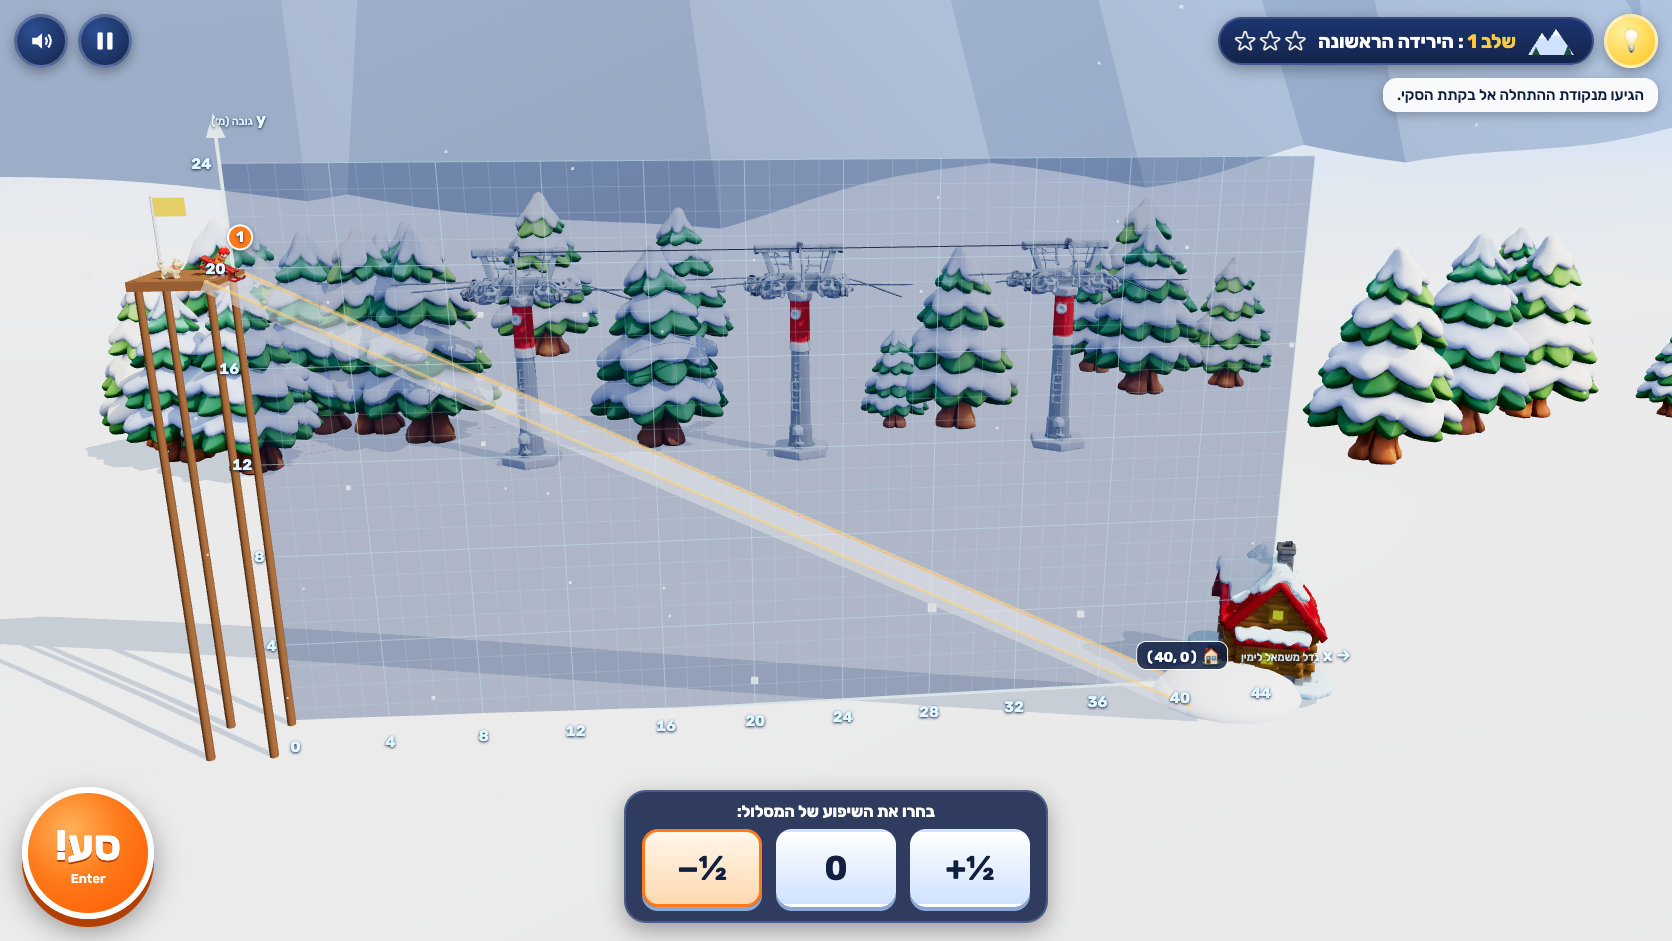
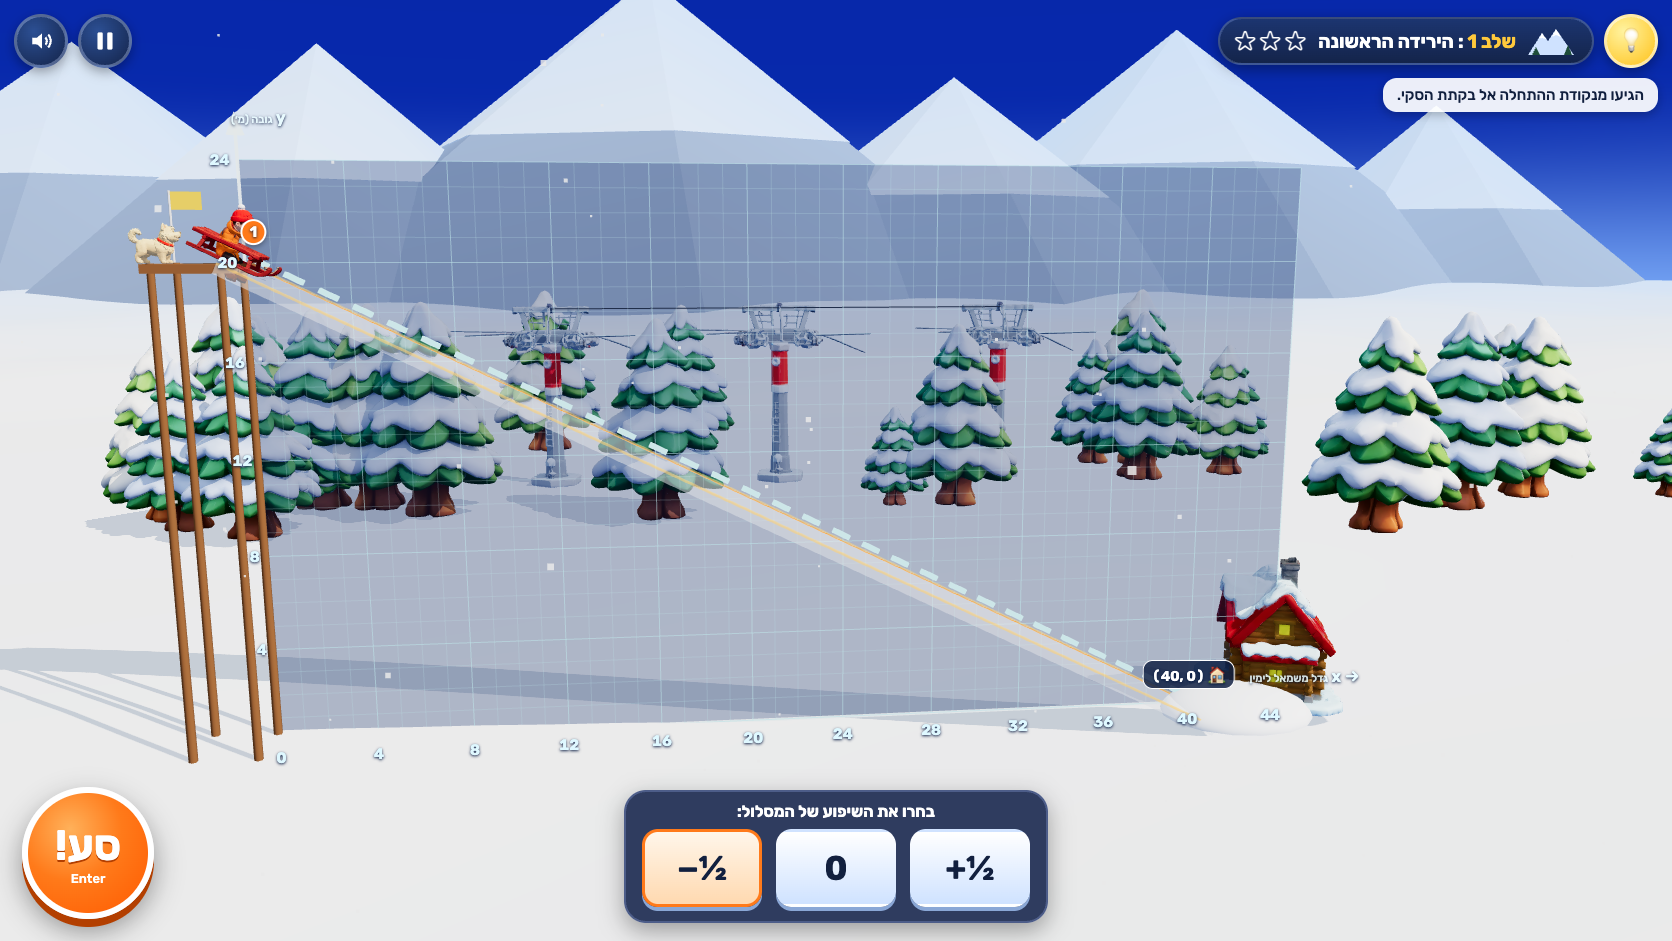
Match mockup 01 more closely: hero-scale characters in build view, dashed preview, open sky and Hermon peaks

diff --git a/src/scene/world.ts b/src/scene/world.ts
@@ -45,7 +45,7 @@ export class World {
     container.appendChild(this.renderer.domElement);
 
     this.camera = new THREE.PerspectiveCamera(40, 1, 0.1, 900);
-    this.scene.fog = new THREE.Fog(COLORS.horizon, 120, 420);
+    this.scene.fog = new THREE.Fog(COLORS.horizon, 160, 620);
 
     // Sky dome with a vertical gradient and a sun glow.
     this.skyMat = new THREE.ShaderMaterial({
@@ -63,7 +63,7 @@ export class World {
         void main(){ float h = vDir.y; vec3 c = h > 0.15 ? mix(mid, top, smoothstep(0.15, 0.8, h)) : mix(bottom, mid, smoothstep(-0.05, 0.15, h));
         float s = max(dot(normalize(vDir), sunDir), 0.0); c += sunColor * (pow(s, 64.0) * 0.9 + pow(s, 6.0) * 0.18); gl_FragColor = vec4(c, 1.0); }`,
     });
-    const sky = new THREE.Mesh(new THREE.SphereGeometry(800, 32, 16), this.skyMat);
+    const sky = new THREE.Mesh(new THREE.SphereGeometry(850, 32, 16), this.skyMat);
     sky.frustumCulled = false;
     this.scene.add(sky);
 
@@ -112,7 +112,7 @@ export class World {
     for (let i = 0; i < fp.count; i++) {
       const x = fp.getX(i), z = fp.getZ(i);
       const away = Math.max(0, Math.abs(z) - 14) / 60;
-      const h = Math.sin(x * 0.05) * Math.cos(z * 0.07) * 1.4 * Math.min(1, away) + Math.max(0, -z - 30) * 0.18;
+      const h = Math.sin(x * 0.05) * Math.cos(z * 0.07) * 1.4 * Math.min(1, away) + Math.max(0, -z - 60) * 0.06;
       fp.setY(i, h - 0.05);
     }
     floorGeo.computeVertexNormals();
@@ -125,7 +125,7 @@ export class World {
     const rockMat = new THREE.MeshStandardMaterial({ color: 0x6f7f9c, roughness: 1, flatShading: true });
     const capMat = new THREE.MeshStandardMaterial({ color: 0xffffff, roughness: 0.85, flatShading: true });
     const peaks: Array<[number, number, number, number]> = [
-      [-60, -230, 120, 95], [10, -260, 150, 140], [90, -240, 110, 100], [160, -270, 140, 120], [-130, -270, 130, 110], [230, -250, 100, 80],
+      [-80, -330, 80, 95], [10, -360, 105, 140], [100, -340, 75, 100], [180, -370, 95, 120], [-160, -370, 85, 110], [260, -350, 70, 80],
     ];
     for (const [x, z, h, r] of peaks) {
       const cone = new THREE.Mesh(new THREE.ConeGeometry(r, h, 7, 3), rockMat);

diff --git a/src/scene/course.ts b/src/scene/course.ts
@@ -399,7 +399,7 @@ export class Course {
     this.rideScenery.visible = false;
     for (let i = 0; i < 3; i++) {
       const py = this.assets.pylon();
-      py.position.set(x0 + 6 + i * ((x1 - x0) / 2.2), 0, -42);
+      py.position.set(x0 + 6 + i * ((x1 - x0) / 2.2), 0, -62);
       back.push(py);
     }
     this.staticGroup.add(...back);
@@ -409,7 +409,7 @@ export class Course {
     for (let i = 0; i < 2; i++) {
       const a = x0 + 6 + i * ((x1 - x0) / 2.2);
       const b = a + (x1 - x0) / 2.2;
-      cp.push(a, 15.5, -42, b, 15.5, -42);
+      cp.push(a, 15.5, -62, b, 15.5, -62);
     }
     cg.setAttribute('position', new THREE.Float32BufferAttribute(cp, 3));
     this.staticGroup.add(new THREE.LineSegments(cg, new THREE.LineBasicMaterial({ color: 0x333a44 })));
@@ -436,6 +436,7 @@ export class Course {
         const mist = this.mist(p.line.m, p.line.b, xb, color);
         this.trackGroup.add(mist);
       }
+      if (ghost) this.trackGroup.add(this.dashes(p.line.m, p.line.b, xa, xb));
       if (o.mode !== 'ride') {
         // Thin glowing line on the grid for the drawn part.
         const g = new THREE.BufferGeometry();
@@ -478,6 +479,23 @@ export class Course {
     g.add(body);
     g.position.set((xa + xb) / 2, (ya + yb) / 2, 0);
     g.rotation.z = ang;
+    return g;
+  }
+
+  /** Bright dashed preview line (tutorial levels only). */
+  private dashes(m: number, b: number, xa: number, xb: number): THREE.Group {
+    const g = new THREE.Group();
+    const ang = Math.atan(m);
+    const len = (xb - xa) / Math.cos(ang);
+    const n = Math.floor(len / 1.4);
+    const mat = new THREE.MeshBasicMaterial({ color: 0x9ff3ff });
+    for (let i = 0; i < n; i++) {
+      const x = xa + ((i + 0.5) / n) * (xb - xa);
+      const d = new THREE.Mesh(new THREE.BoxGeometry(0.8, 0.22, 0.22), mat);
+      d.position.set(x, m * x + b + 0.35, GRID_Z + 0.4);
+      d.rotation.z = ang;
+      g.add(d);
+    }
     return g;
   }
 

diff --git a/src/game/game.ts b/src/game/game.ts
@@ -194,7 +194,7 @@ export class Game {
     this.rider.setPose('idle');
     this.dog.setPose('sit');
     if (!this.stage.rival || this.stage.rival.who !== 'dog') {
-      this.dog.root.position.set(tr.x0 - 1.4, y0, 0.9);
+      this.dog.root.position.set(tr.x0 - 2.4, y0, 0.9);
       this.dog.root.rotation.set(0, 0, 0);
     } else this.placeRivalAt(this.stage.rival.x0);
     if (this.rivalSled && this.stage.rival) this.placeRivalAt(this.stage.rival.x0);
@@ -219,6 +219,10 @@ export class Game {
 
   setMode(m: Mode): void {
     this.mode = m;
+    // Hero scale in the wide build/replay views so the kid and dog read like the mockups; true scale while riding.
+    const hero = m === 'build' || m === 'title' || m === 'select' ? 2 : 1;
+    this.rider?.root.scale.setScalar(hero);
+    this.dog?.root.scale.setScalar(hero);
     if (this.course) this.course.rideScenery.visible = m === 'ride' || m === 'swoop' || (m === 'crash' && !!this.outcome?.ok);
     this.modeT = 0;
     this.renderHud();
@@ -651,7 +655,7 @@ export class Game {
     const d = Math.max((bh / 2) / t * (H / Math.max(1, availH)), (bw / 2) / (t * aspect) * (H / Math.max(1, availH))) * 1.02;
     const center = new THREE.Vector3((v.x0 + v.x1) / 2 + 1.5, (v.y0 + v.y1) / 2 + 1.2 - (this.mode === 'build' && this.els.choices && !narrow ? bh * 0.06 : 0), 0);
     const yaw = drift ? Math.sin(this.modeT * 0.15) * 0.25 : -0.12;
-    const dir = new THREE.Vector3(Math.sin(yaw), 0.3, Math.cos(yaw)).normalize();
+    const dir = new THREE.Vector3(Math.sin(yaw), 0.17, Math.cos(yaw)).normalize();
     const want = center.clone().addScaledVector(dir, d);
     const k = this.modeT < 0.05 ? 1 : Math.min(1, dt * 3.5);
     cam.position.lerp(want, k);

diff --git a/src/style.css b/src/style.css
@@ -27,8 +27,8 @@ button:focus-visible { outline: 3px solid var(--gold); outline-offset: 2px; }
 .label-layer { position: absolute; inset: 0; pointer-events: none; overflow: hidden; }
 .label-layer > div { position: absolute; left: 0; top: 0; will-change: transform; white-space: nowrap; }
 .lbl { font-weight: 700; text-shadow: 0 1px 3px rgba(0, 20, 60, 0.9); translate: -50% -50%; }
-.axis-x { font-size: 15px; color: #dff8ff; translate: -50% 4px; }
-.axis-y { font-size: 15px; color: #dff8ff; translate: -100% -50%; }
+.axis-x { font-size: 15px; color: #fff; translate: -50% 4px; background: rgba(12, 28, 64, 0.6); padding: 0 6px; border-radius: 7px; }
+.axis-y { font-size: 15px; color: #fff; translate: -100% -50%; background: rgba(12, 28, 64, 0.6); padding: 0 6px; border-radius: 7px; }
 .axis-name { font-size: 16px; color: #e9fbff; }
 .axis-note { font-size: 11px; font-weight: 500; opacity: 0.85; }
 .pt { font-size: 14px; background: rgba(12, 28, 64, 0.82); padding: 2px 8px; border-radius: 10px; border: 1.5px solid var(--gold); }
